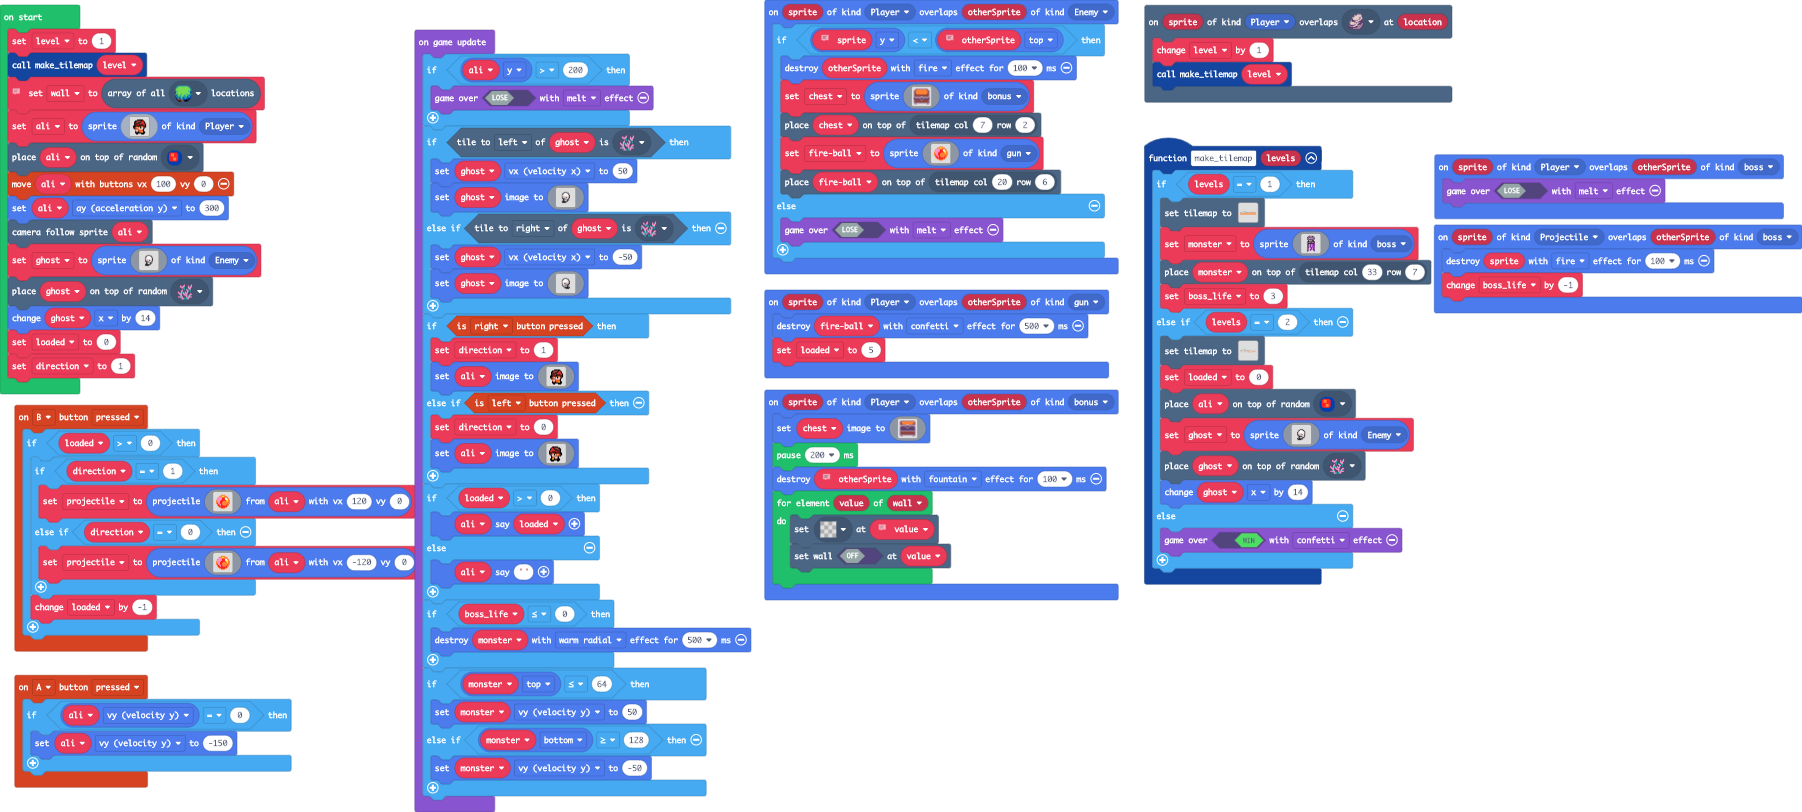
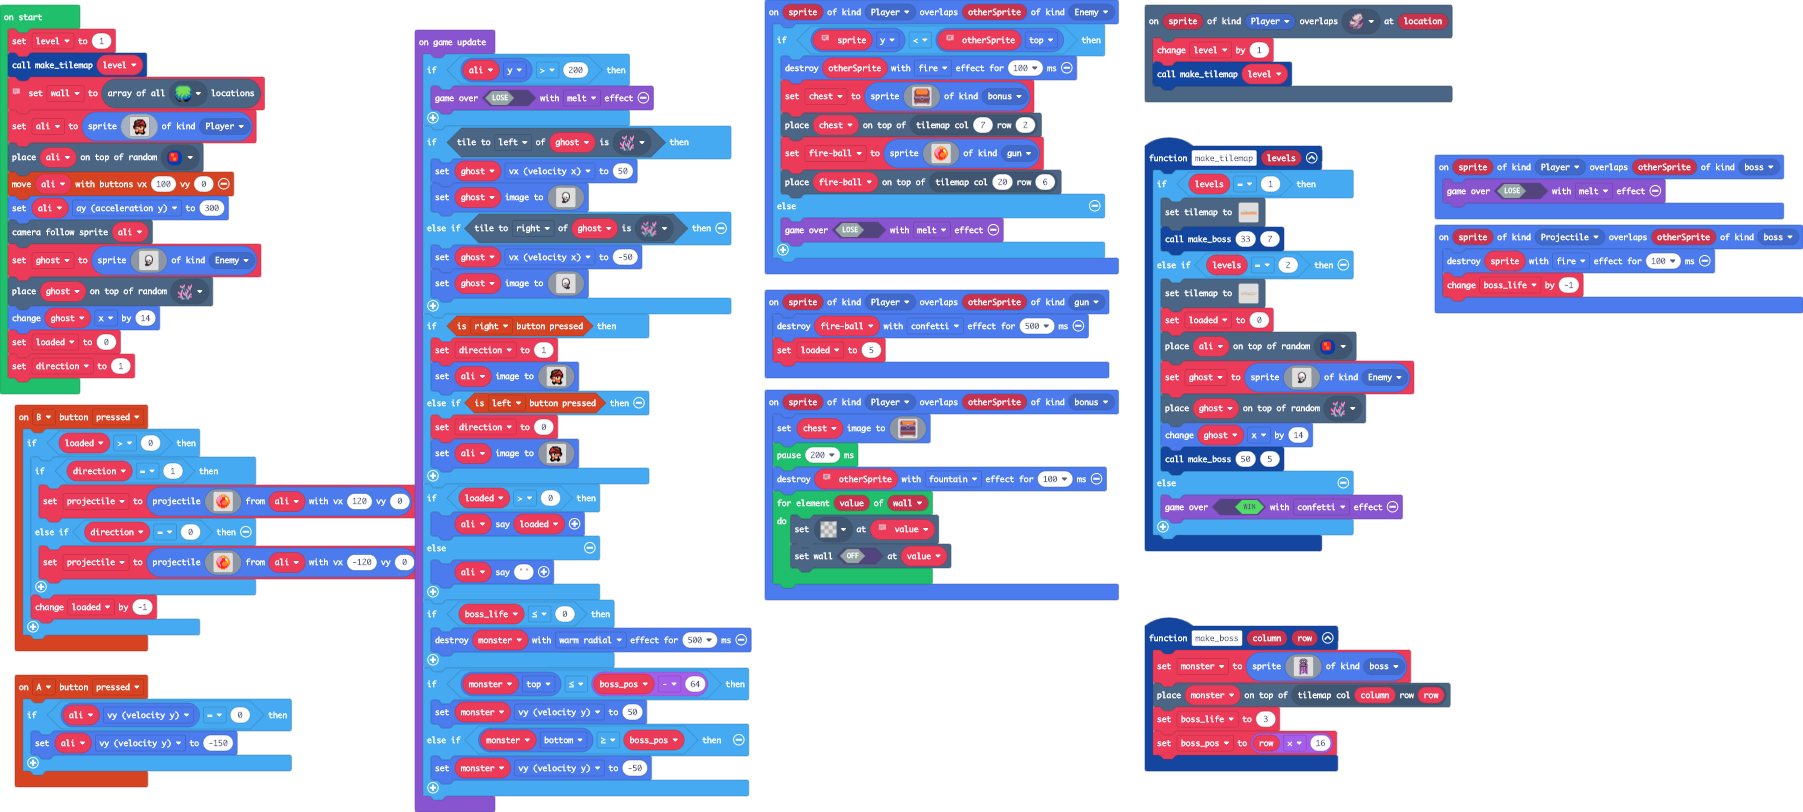
Dynamic boss-pos

diff --git a/main.ts b/main.ts
@@ -111,42 +111,7 @@ function make_tilemap (levels: number) {
             ........................................................
             ........................................................
             `, [myTiles.transparency16,sprites.builtin.oceanDepths0,myTiles.tile1,sprites.dungeon.hazardLava0,sprites.dungeon.hazardLava1,sprites.builtin.coral0,sprites.builtin.coral5,sprites.builtin.forestTiles0,sprites.builtin.forestTiles3,sprites.builtin.forestTiles2,sprites.builtin.forestTiles1,sprites.castle.rock1,sprites.castle.saplingOak], TileScale.Sixteen))
-        monster = sprites.create(img`
-            .....fccccf.....
-            ..ccfbb33bbfcc..
-            .cb33bbccbb33bc.
-            .f3cccbccbccc3f.
-            fcbbccbccbccbbcf
-            c3ccb11cc11bcc3c
-            c3ccc11cc11ccc3c
-            .fbbccccccccbbf.
-            ..fbbccccccbbf..
-            ..ccc1f1f1fccc..
-            .c3ff1f1f1fff3c.
-            c3ff1f1f1f1fff3c
-            f3cc1f1f1f1fcc3f
-            fb3cbbfbbfbbc3bf
-            bcbb33b33b33bbca
-            bbffffffffffff3a
-            baacb3ac333aacaa
-            aaccb3acbb3aacac
-            accbb3acbb3aacac
-            bacbb3acb33accaa
-            baccb3acb3aacbba
-            baacb3acb3aacbba
-            baacb3acc33acbba
-            baccb33acc3accba
-            bacbb.3aac3aacba
-            bacb..33ac33acba
-            bacb.33aac.aacba
-            bacb.3aacc.aacba
-            aacb.3acc...acca
-            accb.3ac....aaca
-            acbb...........a
-            acb............a
-            `, SpriteKind.boss)
-        tiles.placeOnTile(monster, tiles.getTileLocation(33, 7))
-        boss_life = 3
+        make_boss(33, 7)
     } else if (levels == 2) {
[1 lines of base64/hex data omitted]
             ........................................................
@@ -196,9 +161,49 @@ function make_tilemap (levels: number) {
             `, SpriteKind.Enemy)
         tiles.placeOnRandomTile(ghost, sprites.builtin.coral0)
         ghost.x += 14
+        make_boss(50, 5)
     } else {
         game.over(true, effects.confetti)
     }
+}
+function make_boss (column: number, row: number) {
+    monster = sprites.create(img`
+        .....fccccf.....
+        ..ccfbb33bbfcc..
+        .cb33bbccbb33bc.
+        .f3cccbccbccc3f.
+        fcbbccbccbccbbcf
+        c3ccb11cc11bcc3c
+        c3ccc11cc11ccc3c
+        .fbbccccccccbbf.
+        ..fbbccccccbbf..
+        ..ccc1f1f1fccc..
+        .c3ff1f1f1fff3c.
+        c3ff1f1f1f1fff3c
+        f3cc1f1f1f1fcc3f
+        fb3cbbfbbfbbc3bf
+        bcbb33b33b33bbca
+        bbffffffffffff3a
+        baacb3ac333aacaa
+        aaccb3acbb3aacac
+        accbb3acbb3aacac
+        bacbb3acb33accaa
+        baccb3acb3aacbba
+        baacb3acb3aacbba
+        baacb3acc33acbba
+        baccb33acc3accba
+        bacbb.3aac3aacba
+        bacb..33ac33acba
+        bacb.33aac.aacba
+        bacb.3aacc.aacba
+        aacb.3acc...acca
+        accb.3ac....aaca
+        acbb...........a
+        acb............a
+        `, SpriteKind.boss)
+    tiles.placeOnTile(monster, tiles.getTileLocation(column, row))
+    boss_life = 3
+    boss_pos = row * 16
 }
 sprites.onOverlap(SpriteKind.Projectile, SpriteKind.boss, function (sprite, otherSprite) {
     sprite.destroy(effects.fire, 100)
@@ -251,6 +256,7 @@ sprites.onOverlap(SpriteKind.Player, SpriteKind.Enemy, function (sprite, otherSp
         game.over(false, effects.melt)
     }
 })
+let boss_pos = 0
 let boss_life = 0
 let monster: Sprite = null
 let chest: Sprite = null
@@ -428,9 +434,9 @@ game.onUpdate(function () {
     if (boss_life <= 0) {
         monster.destroy(effects.warmRadial, 500)
     }
-    if (monster.top <= 64) {
+    if (monster.top <= boss_pos - 64) {
         monster.vy = 50
-    } else if (monster.bottom >= 128) {
+    } else if (monster.bottom >= boss_pos) {
         monster.vy = -50
     }
 })
